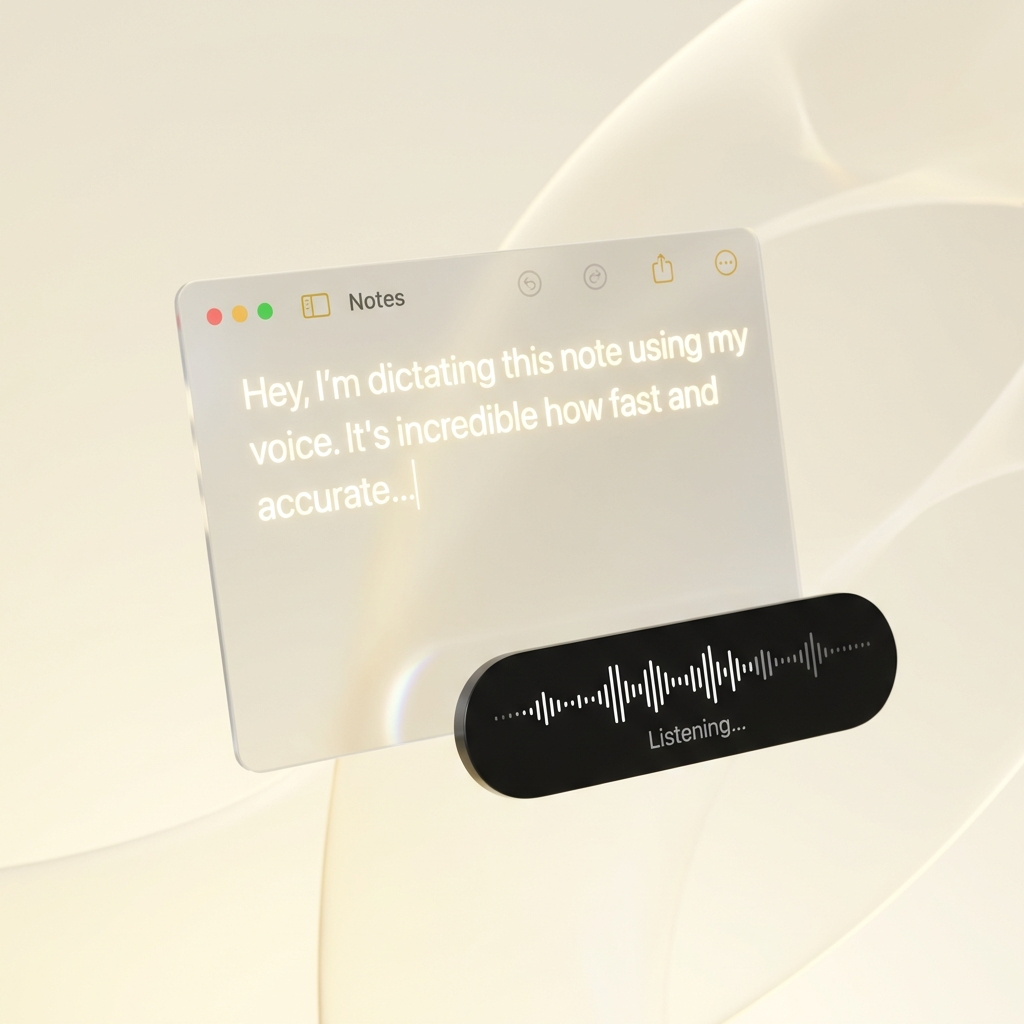
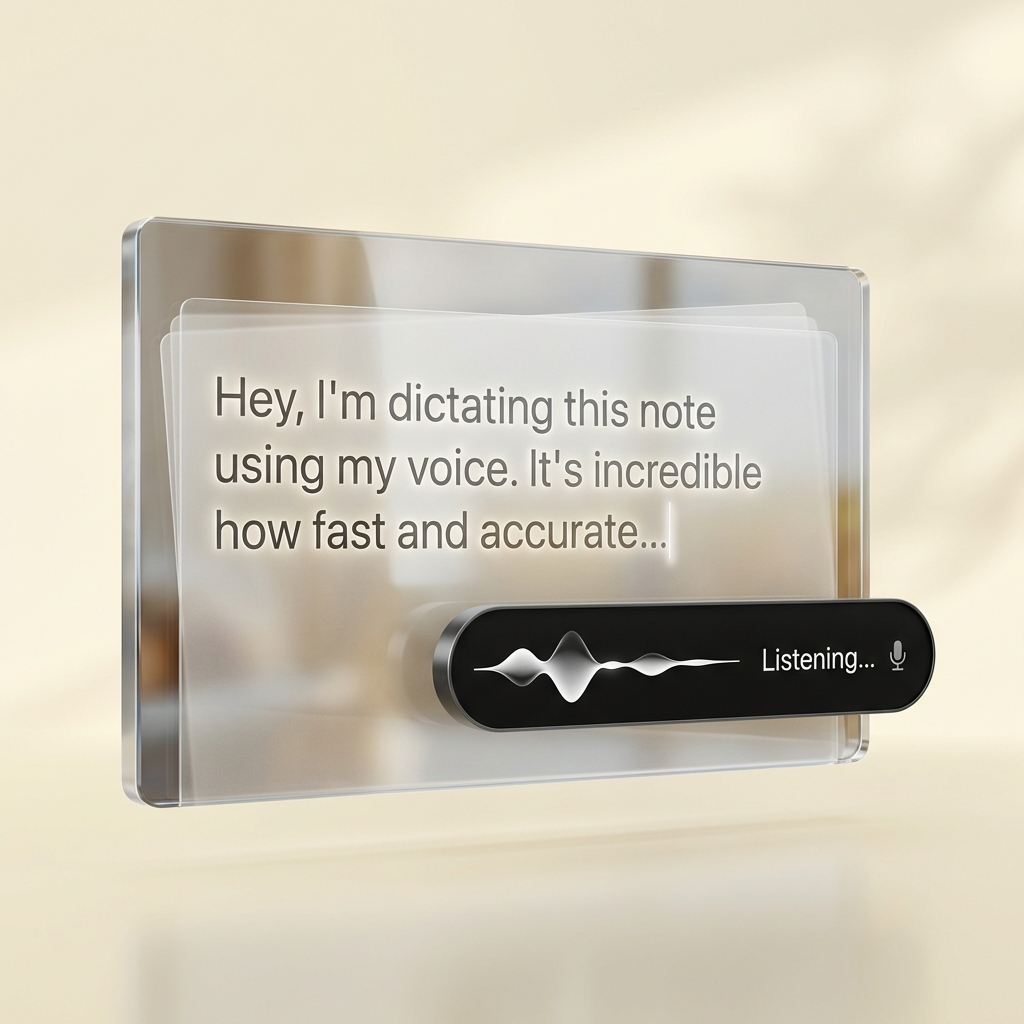
Optimize hero section: wider landscape image & better space usage
- New wider 16:9 landscape hero image for better horizontal fit
- Increased hero visual max-width from 600px to 900px
- Reduced vertical padding (100px top, 40px bottom)
- Reduced hero height from 100vh to 85vh
- Increased horizontal padding to 40px
- Mobile responsive verified

diff --git a/index.html b/index.html
@@ -137,13 +137,13 @@
 
         /* --- Hero --- */
         header.hero {
-            min-height: 100vh;
+            min-height: 85vh;
             display: flex;
             flex-direction: column;
             align-items: center;
             justify-content: center;
             text-align: center;
-            padding: 120px 20px 60px;
+            padding: 100px 40px 40px;
             position: relative;
         }
 
@@ -162,8 +162,8 @@
 
         .hero-visual {
             width: 100%;
-            max-width: 600px;
-            margin-top: 20px;
+            max-width: 900px;
+            margin-top: 30px;
             position: relative;
         }
 
